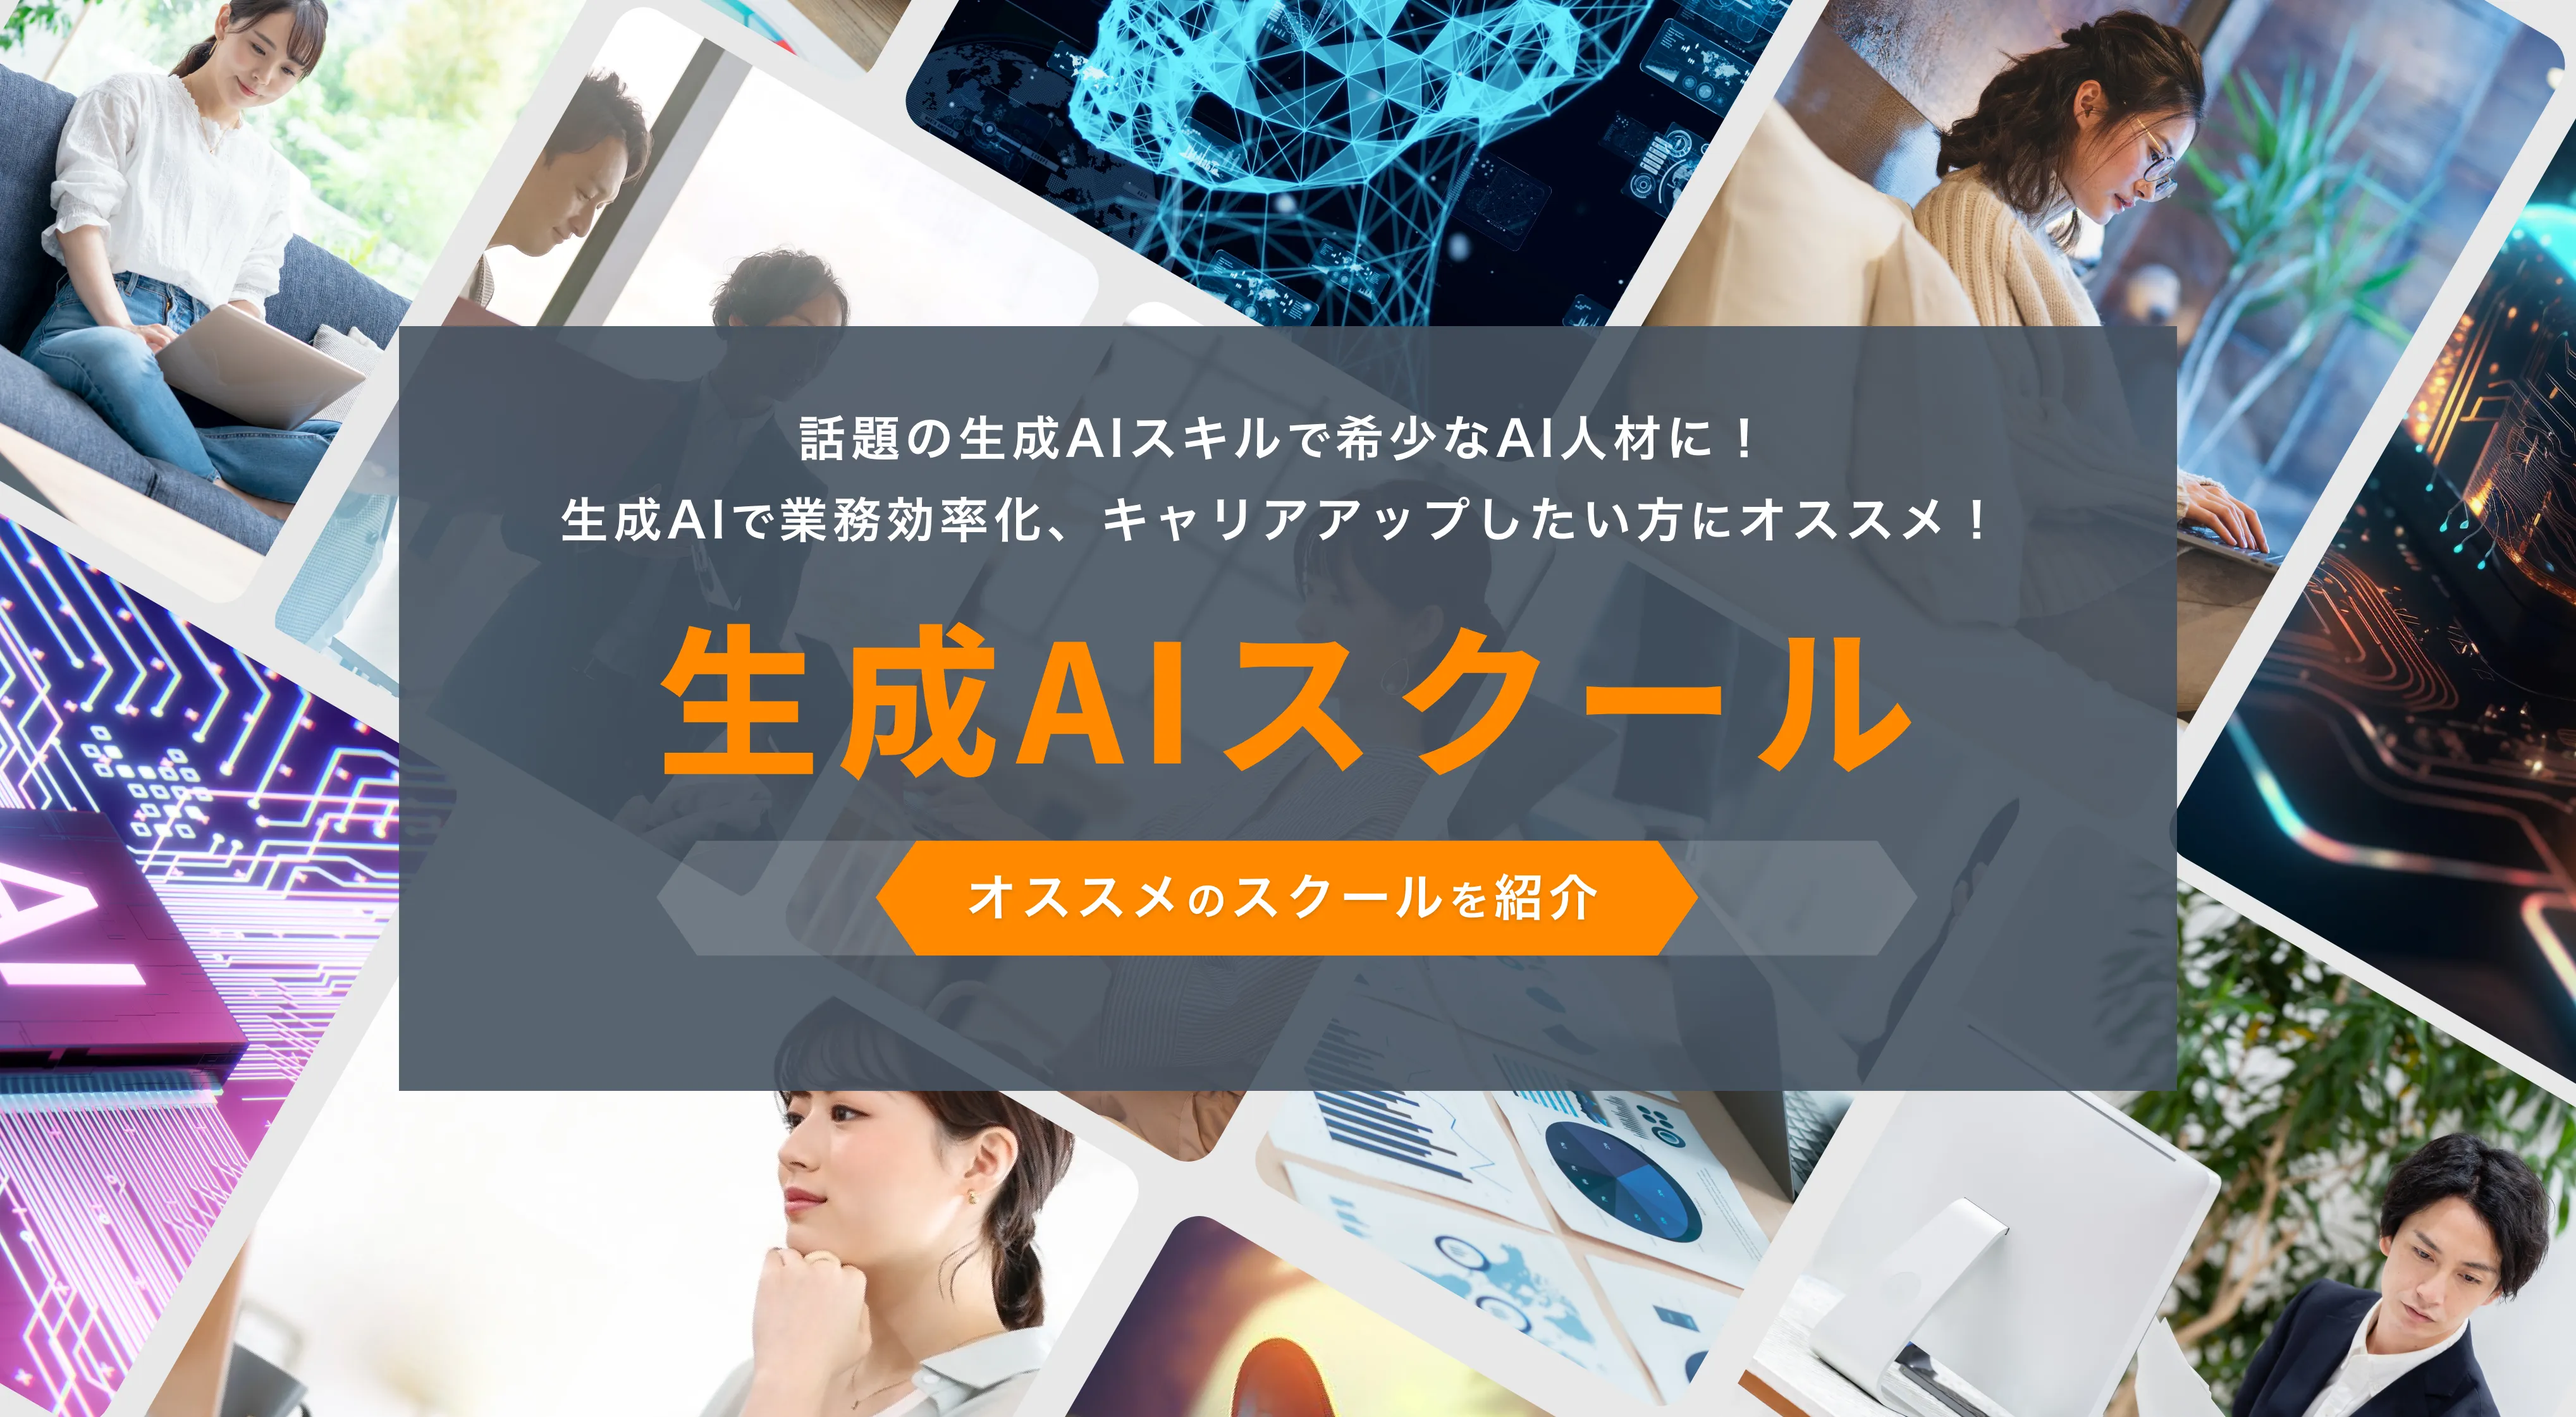
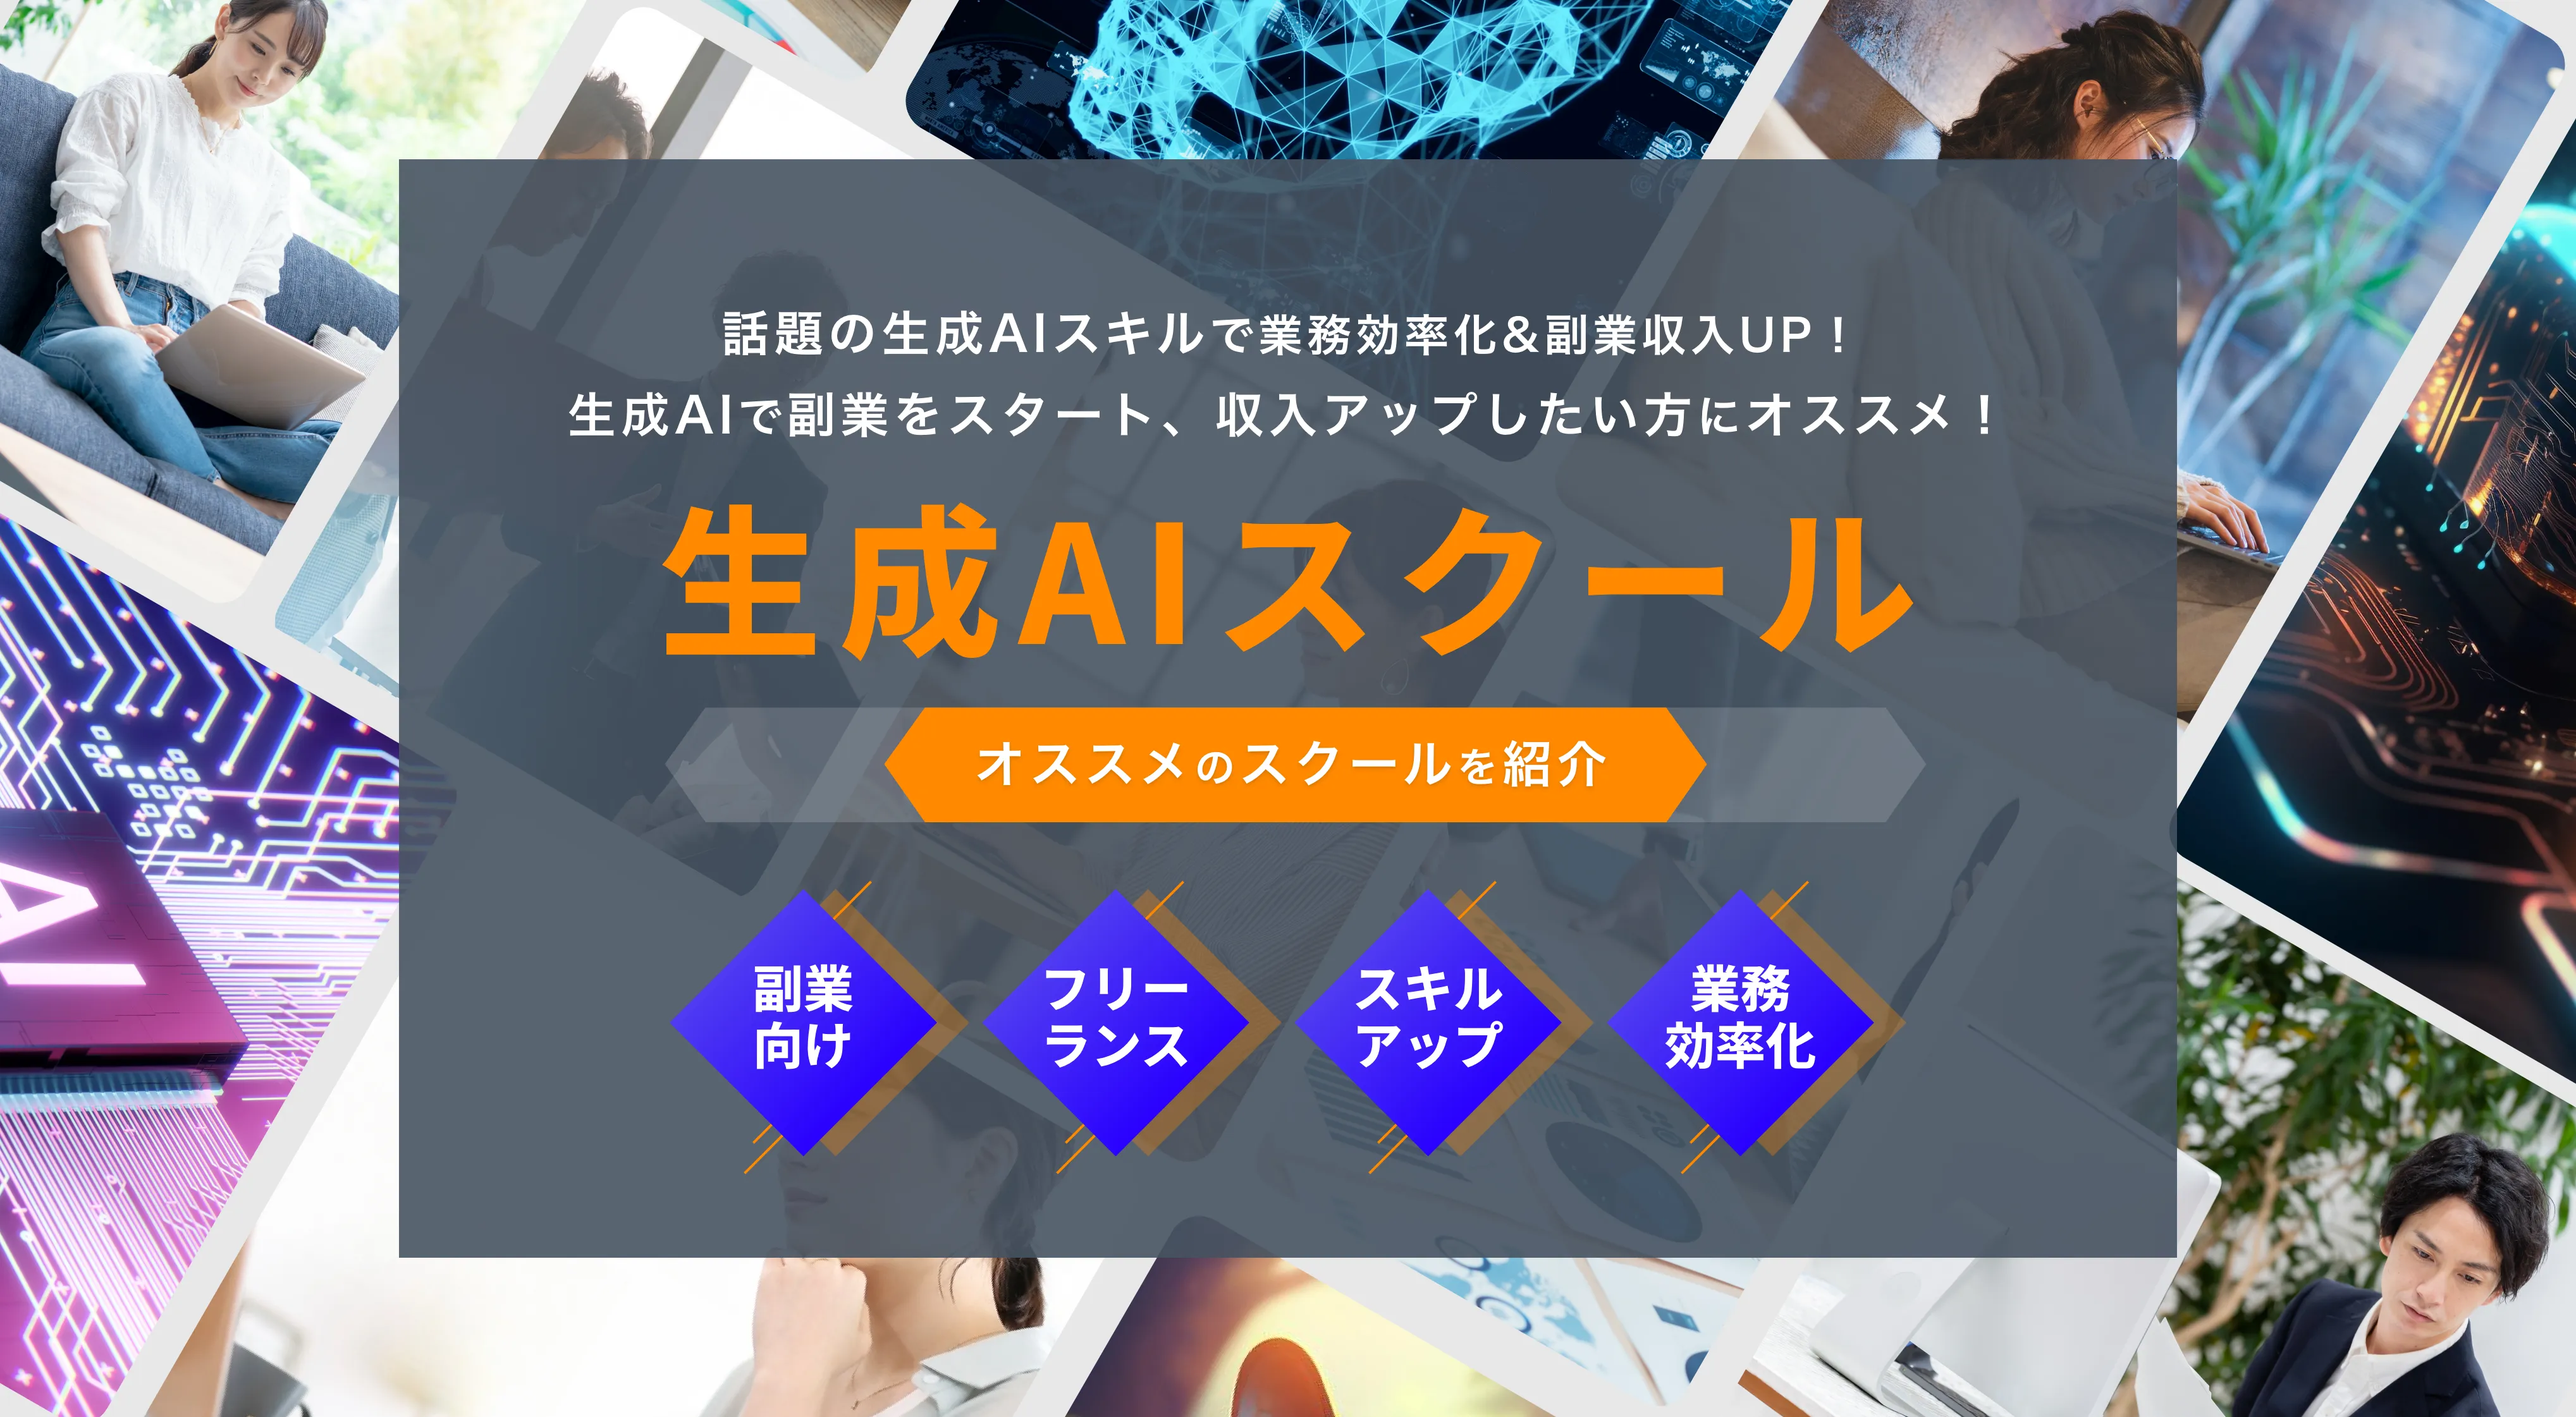
FV変更

diff --git a/css/parts_kv_2.css b/css/parts_kv_2.css
@@ -1,74 +1,79 @@
-#key-visual__container{
-    position: relative;
-    max-width: 1200px;
-    margin: auto;
-    display: flex;
-    align-items: center;
-    justify-content: center;
+#key-visual__container {
+  position: relative;
+  max-width: 1200px;
+  margin: auto;
+  display: flex;
+  align-items: center;
+  justify-content: center;
 }
-@media screen and (min-width:1024px) {
-#key-visual__container{
-min-height: 720px;
+@media screen and (min-width: 1024px) {
+  #key-visual__container {
+    min-height: 720px;
+  }
 }
+#container__tag {
+  position: absolute;
+  left: 6.9%;
+  top: 4%;
+  text-align: center;
+  color: #fff;
+  font-size: 2.2vw;
+  line-height: 1.32;
+  z-index: 100;
 }
-#container__tag{
-    position: absolute;
-    left: 7.52%;
-    top: 4.0%;
-    text-align: center;
-    color: #fff;
-    font-size: 3.2vw;
-    line-height: 1.32;
-    z-index: 100;
-}
-@media screen and (min-width:1200px) {
-    #container__tag{
+@media screen and (min-width: 1200px) {
+  #container__tag {
     font-size: 16px;
-    top:24px;
+    top: 24px;
     left: 80px;
+  }
 }
+#container__tag strong {
+  color: #fff;
+  font-size: 3.2vw;
 }
-#container__tag strong{
-    color: #fff;
-    font-size: 4.2vw;
-}
-@media screen and (min-width:1200px) {
-    #container__tag strong{
+@media screen and (min-width: 1200px) {
+  #container__tag strong {
     font-size: 36px;
-}
+  }
 }
 
-#container__tag--bg{position: absolute;top: 0;left: 3.2vw;z-index: 10;width: 22vw;}
-@media screen and (min-width:1200px) {
-#container__tag--bg{
+#container__tag--bg {
+  position: absolute;
+  top: 0;
+  left: 3.2vw;
+  z-index: 10;
+  width: 17vw;
+}
+@media screen and (min-width: 1200px) {
+  #container__tag--bg {
     width: 160px;
-    left:52px;
+    left: 52px;
+  }
 }
+
+#key-visual {
+  background: transparent url(../common/img/kv_2/kv_bg.png) no-repeat;
+  background-size: cover;
+  margin: 0 0;
+  background-position: center;
 }
 
-    #key-visual {
-        background: transparent url(../common/img/kv_2/kv_bg.png) no-repeat;
-        background-size: cover;
-        margin: 0 0;
-        background-position: center;
-    }
-
-
-#container__area{
-    text-align: center;
-    color: #fff;
-    font-size: 3.6vw;
-    line-height: 1.32;
-    z-index: 200;
-    width: 100%;
-    position: absolute;
-    top: 22.4vw;
-    letter-spacing: 0.12rem;
-    font-weight: bold;
-    }
-@media screen and (min-width:1024px) {
-    #container__area{
+#container__area {
+  text-align: center;
+  color: #fff;
+  font-size: 3.6vw;
+  line-height: 1.32;
+  z-index: 200;
+  width: 100%;
+  position: absolute;
+  top: 22.4vw;
+  letter-spacing: 0.12rem;
+  font-weight: bold;
+}
+@media screen and (min-width: 1024px) {
+  #container__area {
     font-size: 32px;
     top: 244px;
-}
+  }
 }
